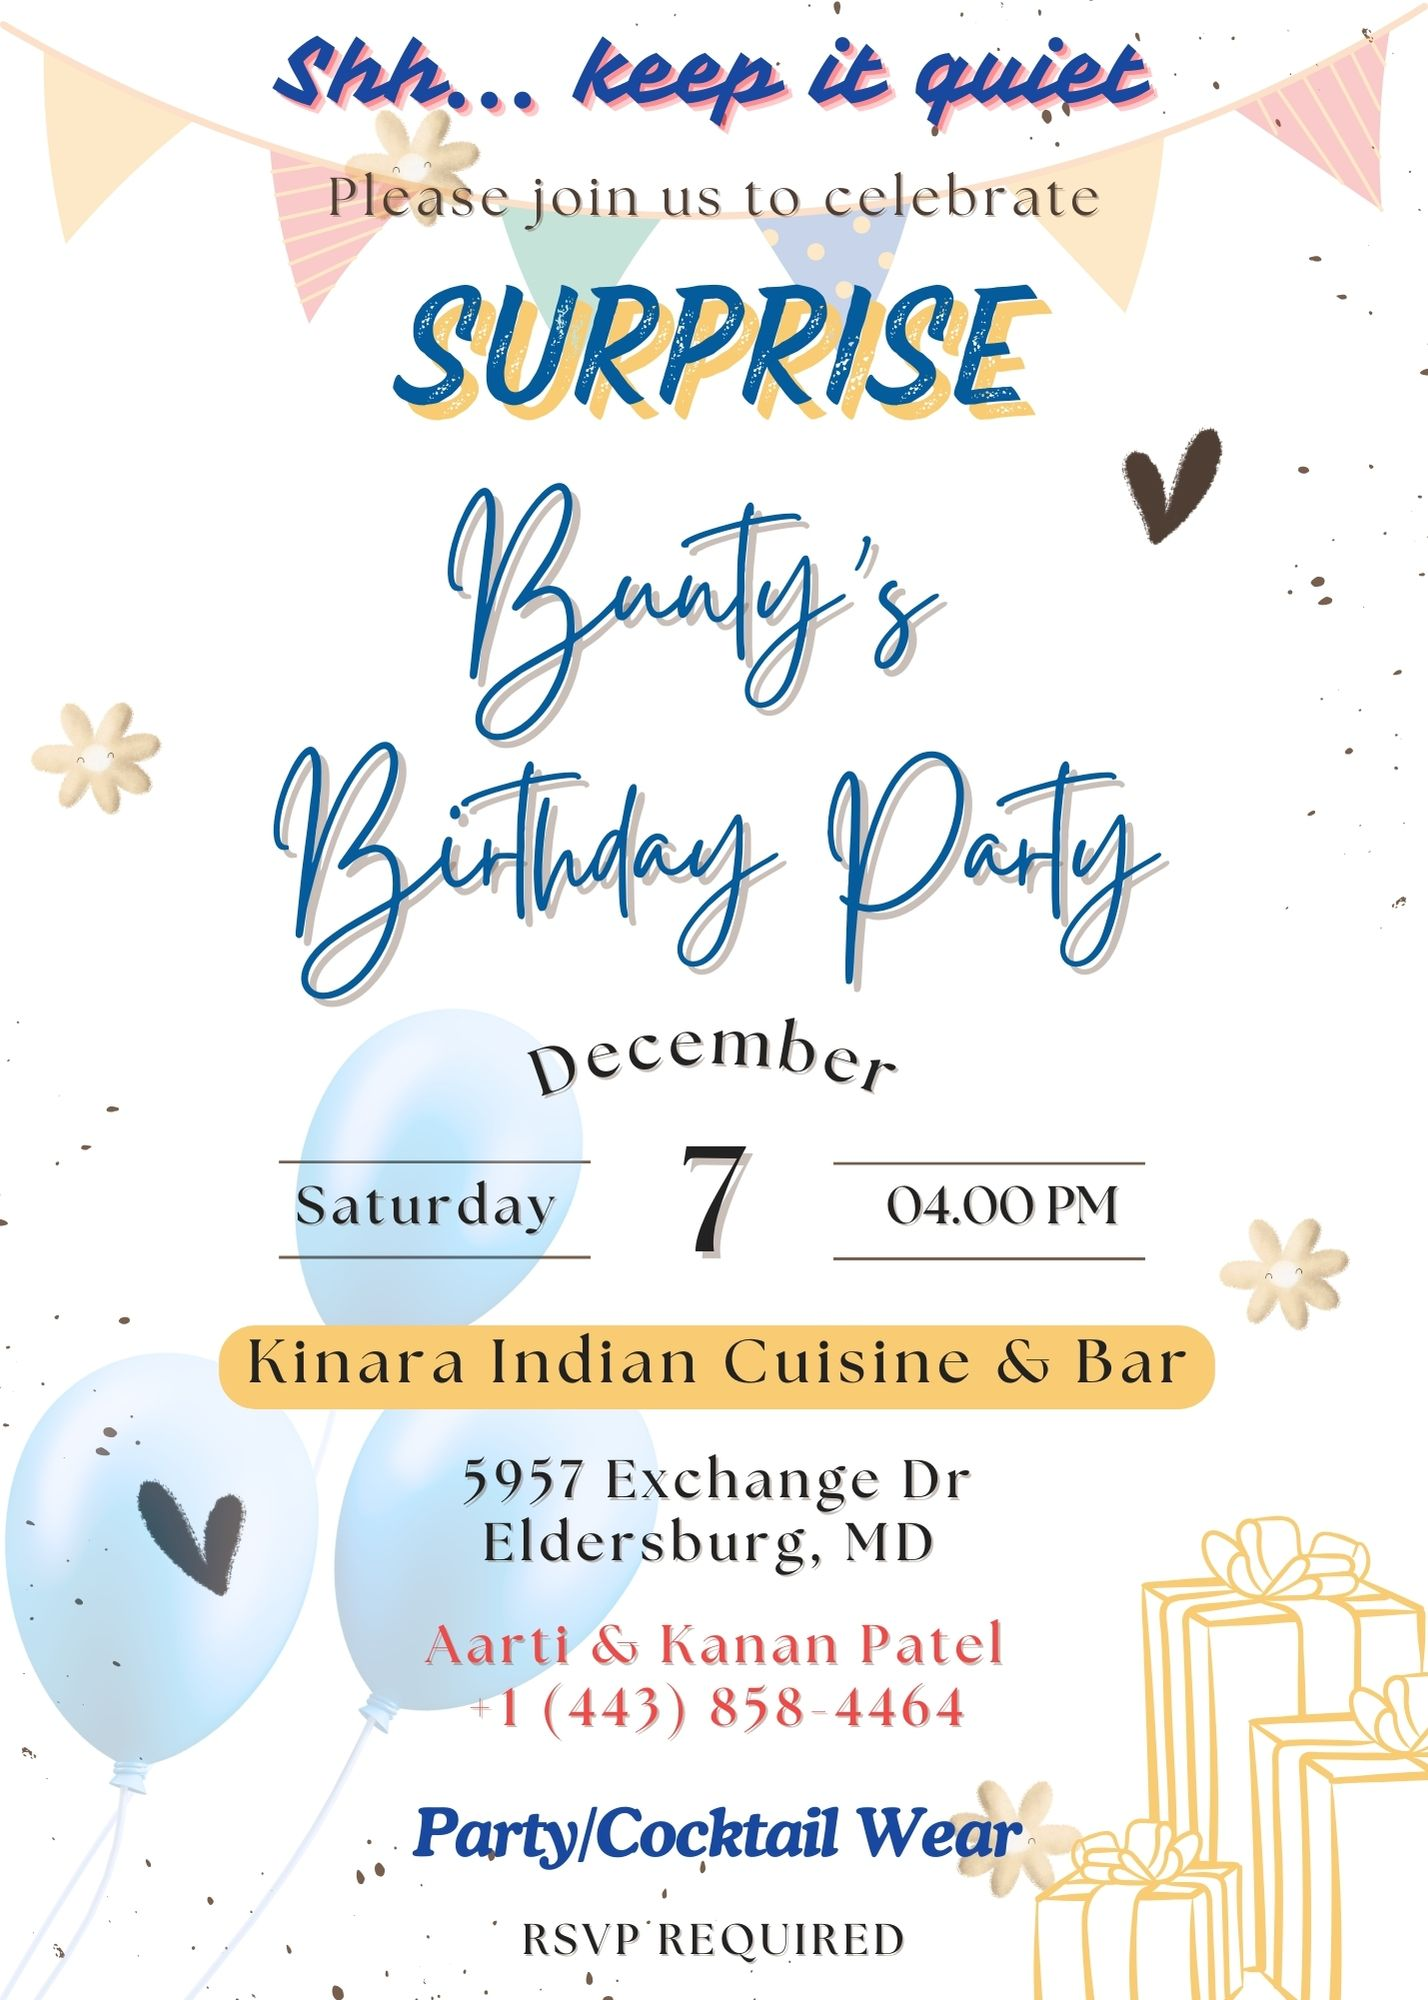
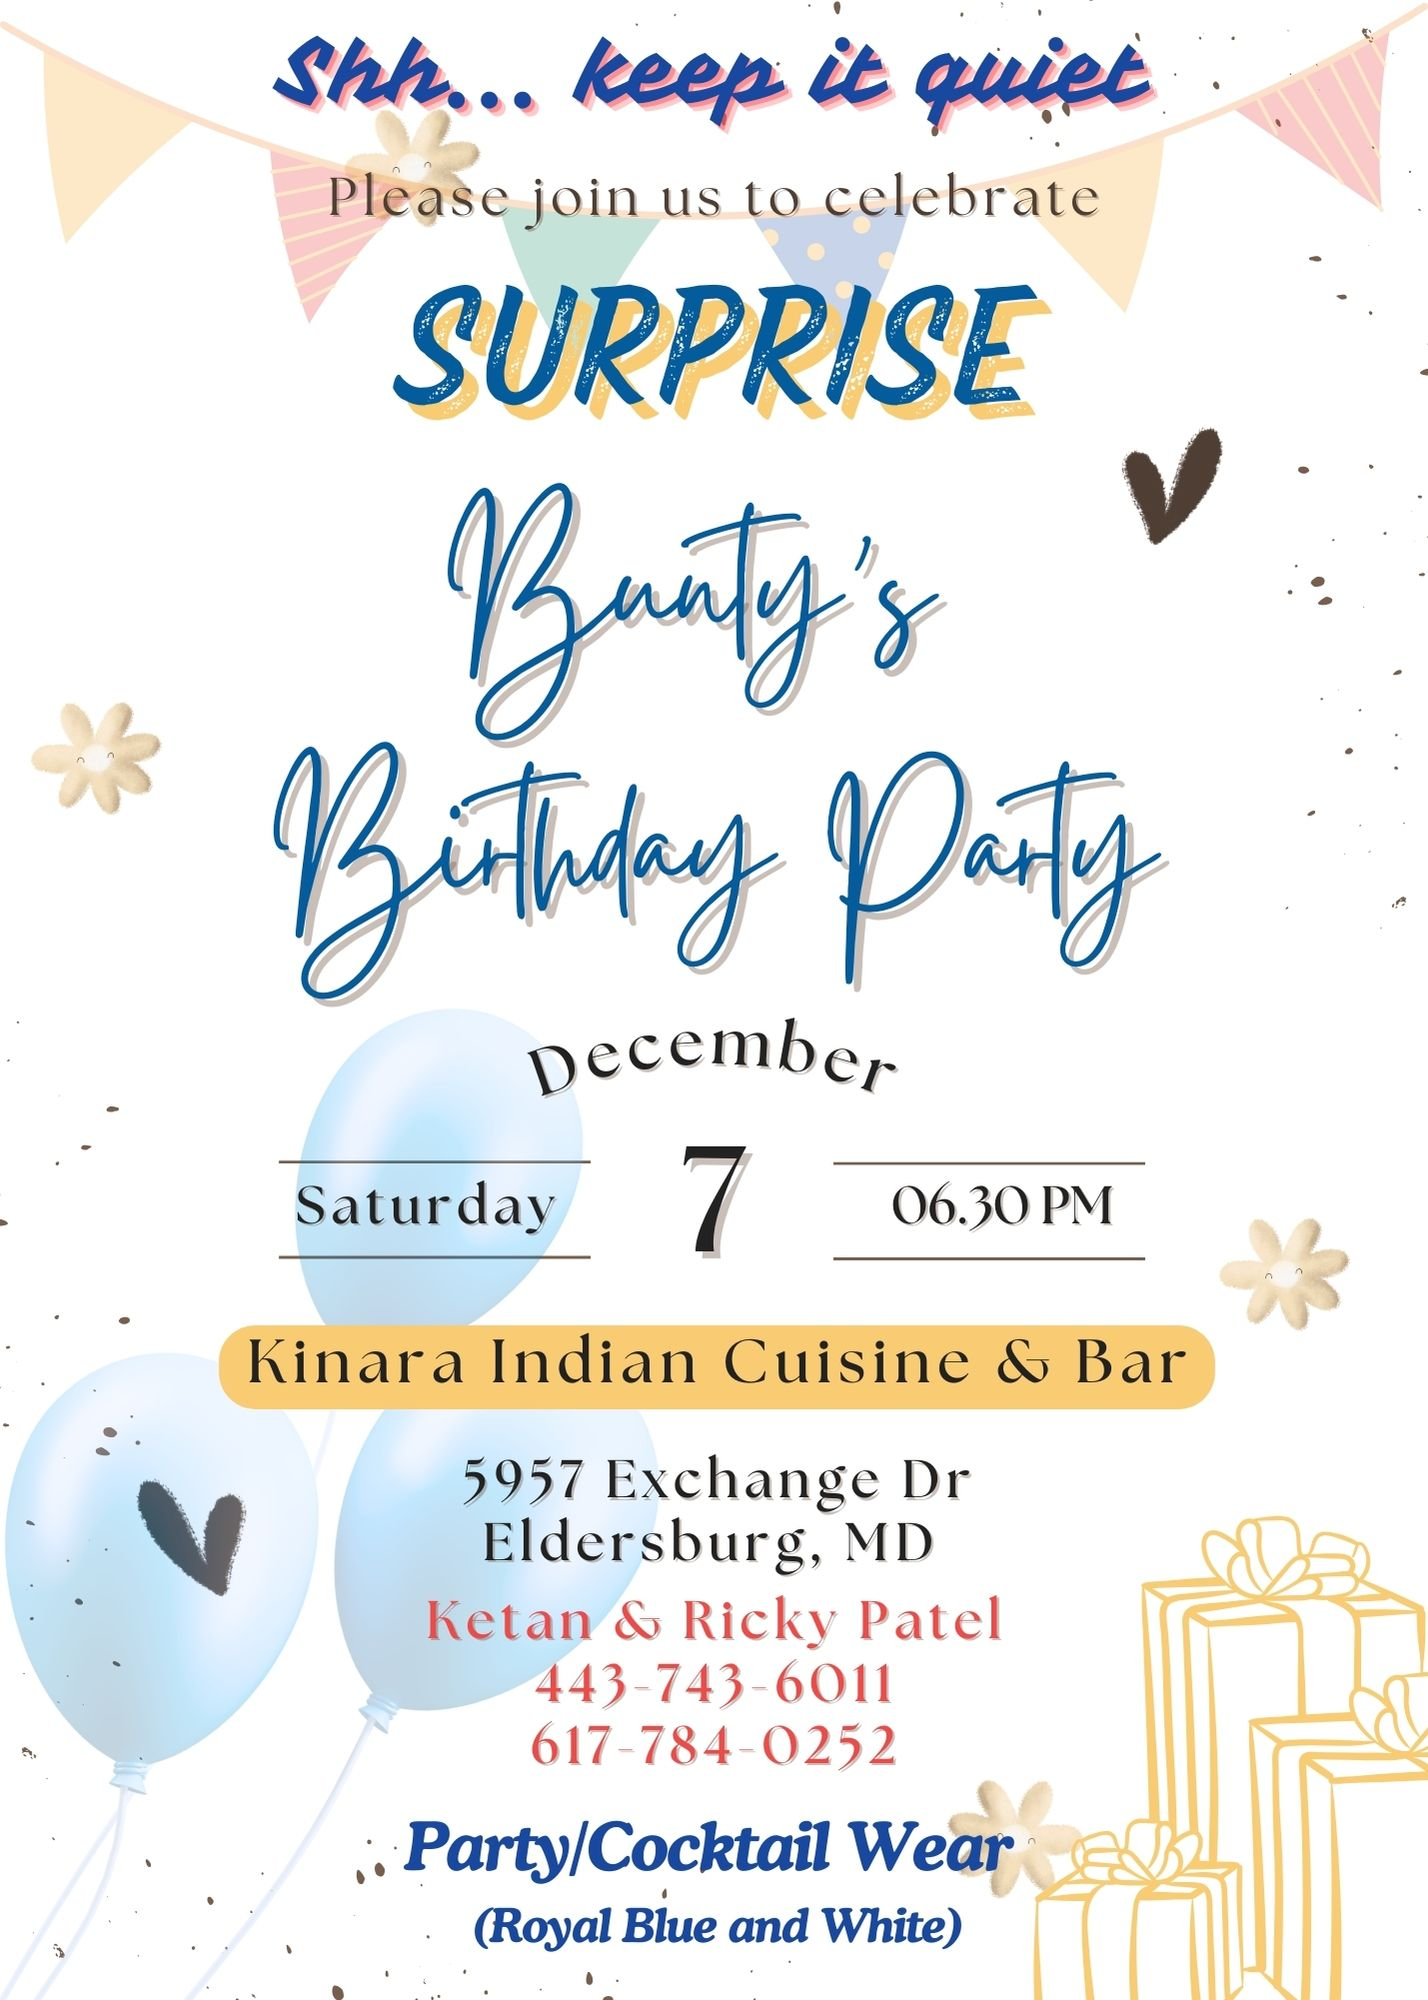
few changes

Changed region(s): [[0.2773, 0.806, 0.7087, 0.992], [0.6162, 0.589, 0.8011, 0.62]]

diff --git a/index.html b/index.html
@@ -30,6 +30,10 @@
   <div class="container">
     <p>We are hosting a Surprise Birthday Party for our lovely Bunty on his 36th Birthday at Kinara Indian Restaurant
     </p>
+    <p>It's Surprise Party so please keep it quite.... 
+    </p>
+    <p>Be do RSVP By Sunday, November 17th
+    </p>
 
     <!-- Event Location -->
     <div class="event-location">
@@ -47,6 +51,8 @@
       <h2>Host Details</h2>
       <p><strong>Host:</strong> Bhumi and Prashant Patel</p>
       <p>If you have any questions, feel free to contact Aarti and Kani Patel at:</p>
+      <p><strong>Ketan Patel :</strong> (443) 743-6011</p>
+      <p><strong>Ricky Patel :</strong> (617) 784-0252</p>
       <p><strong>Aarti Patel :</strong> (443) 858-4464</p>
       <p><strong>Kani Patel :</strong> (443) 763-0717</p>
     </div>
